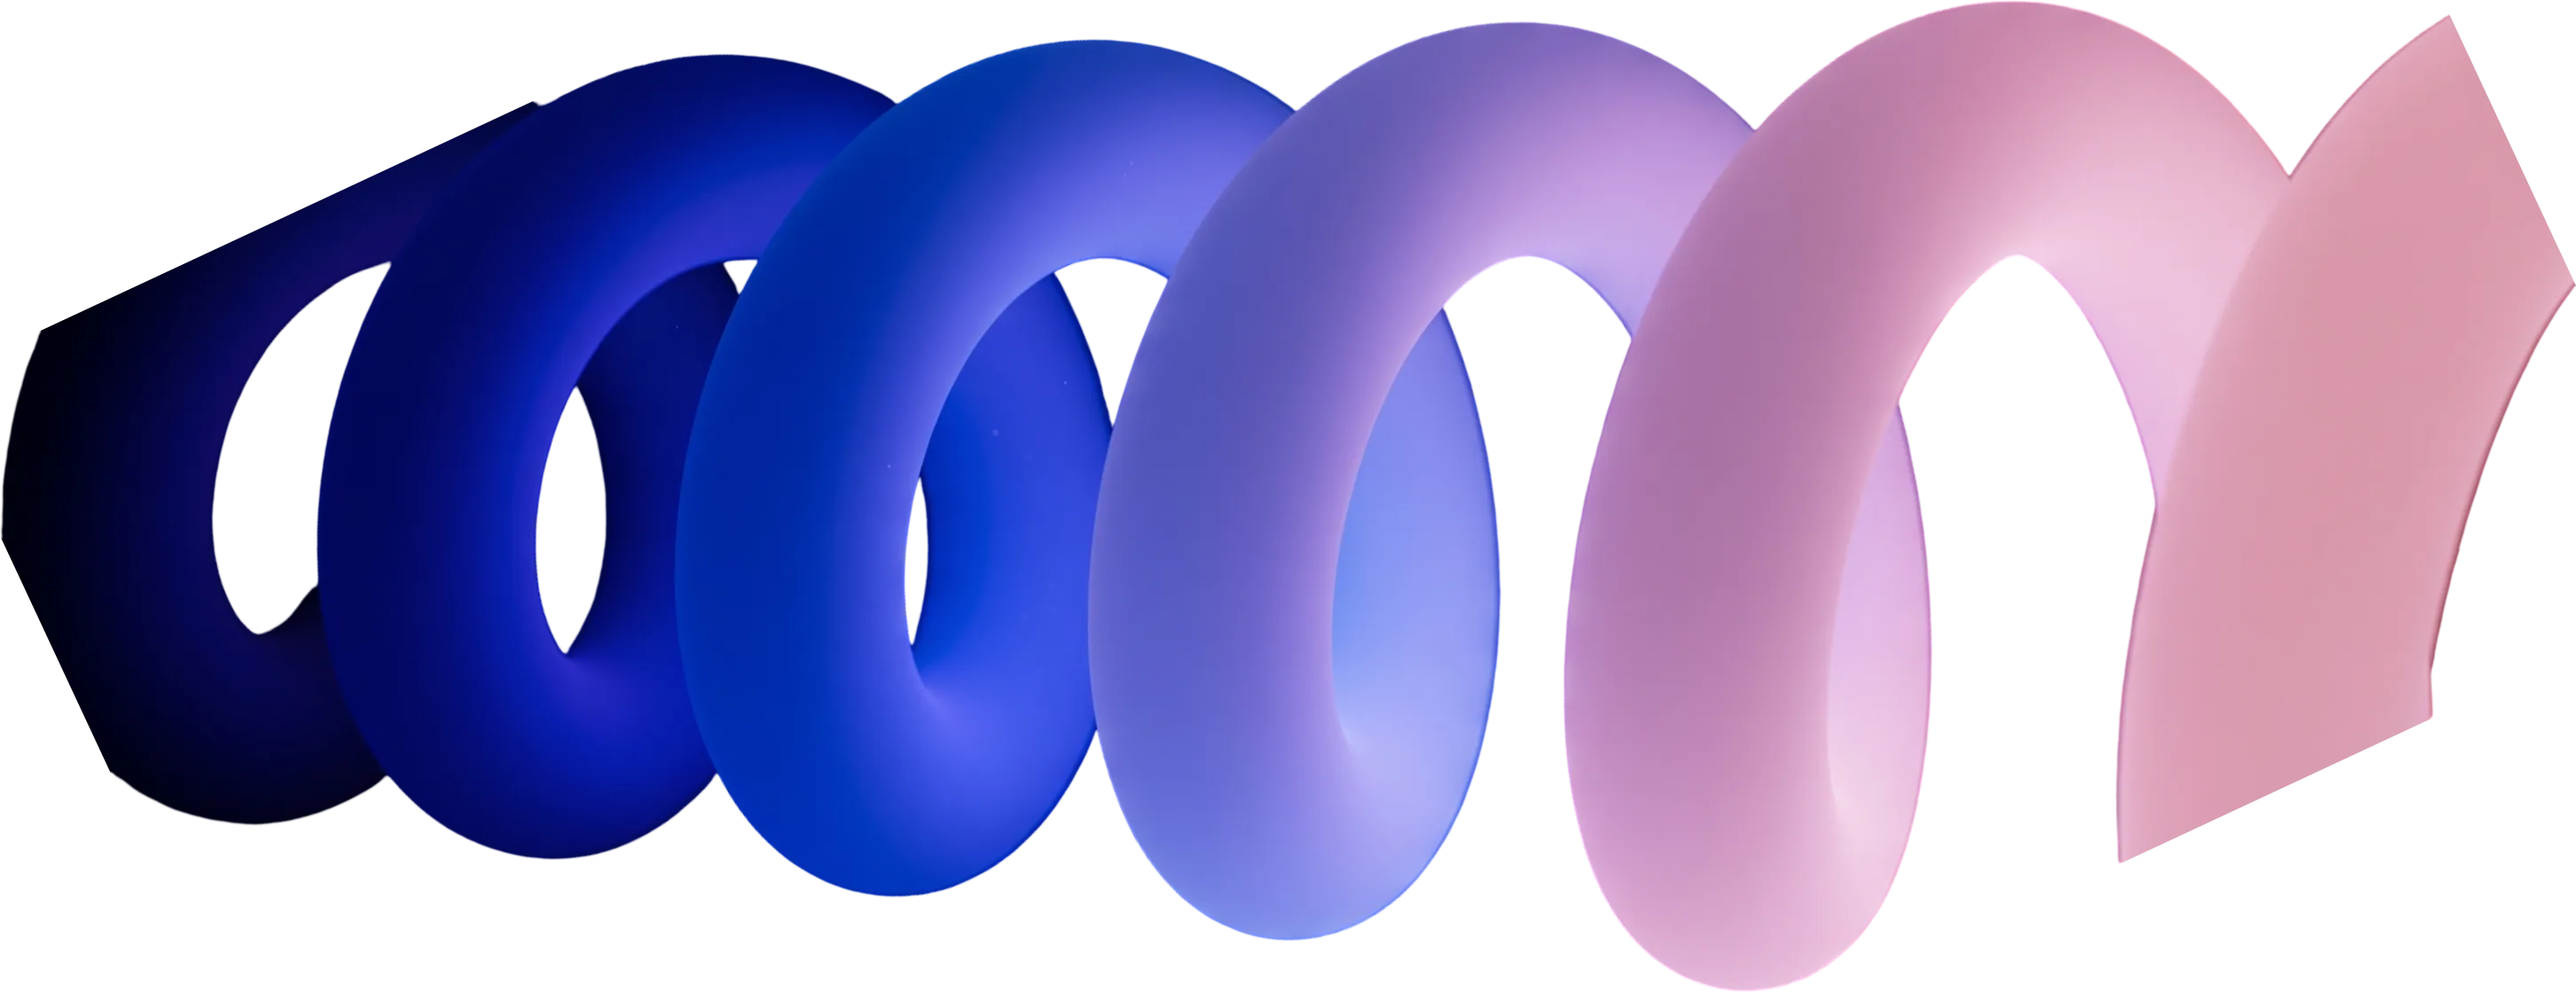
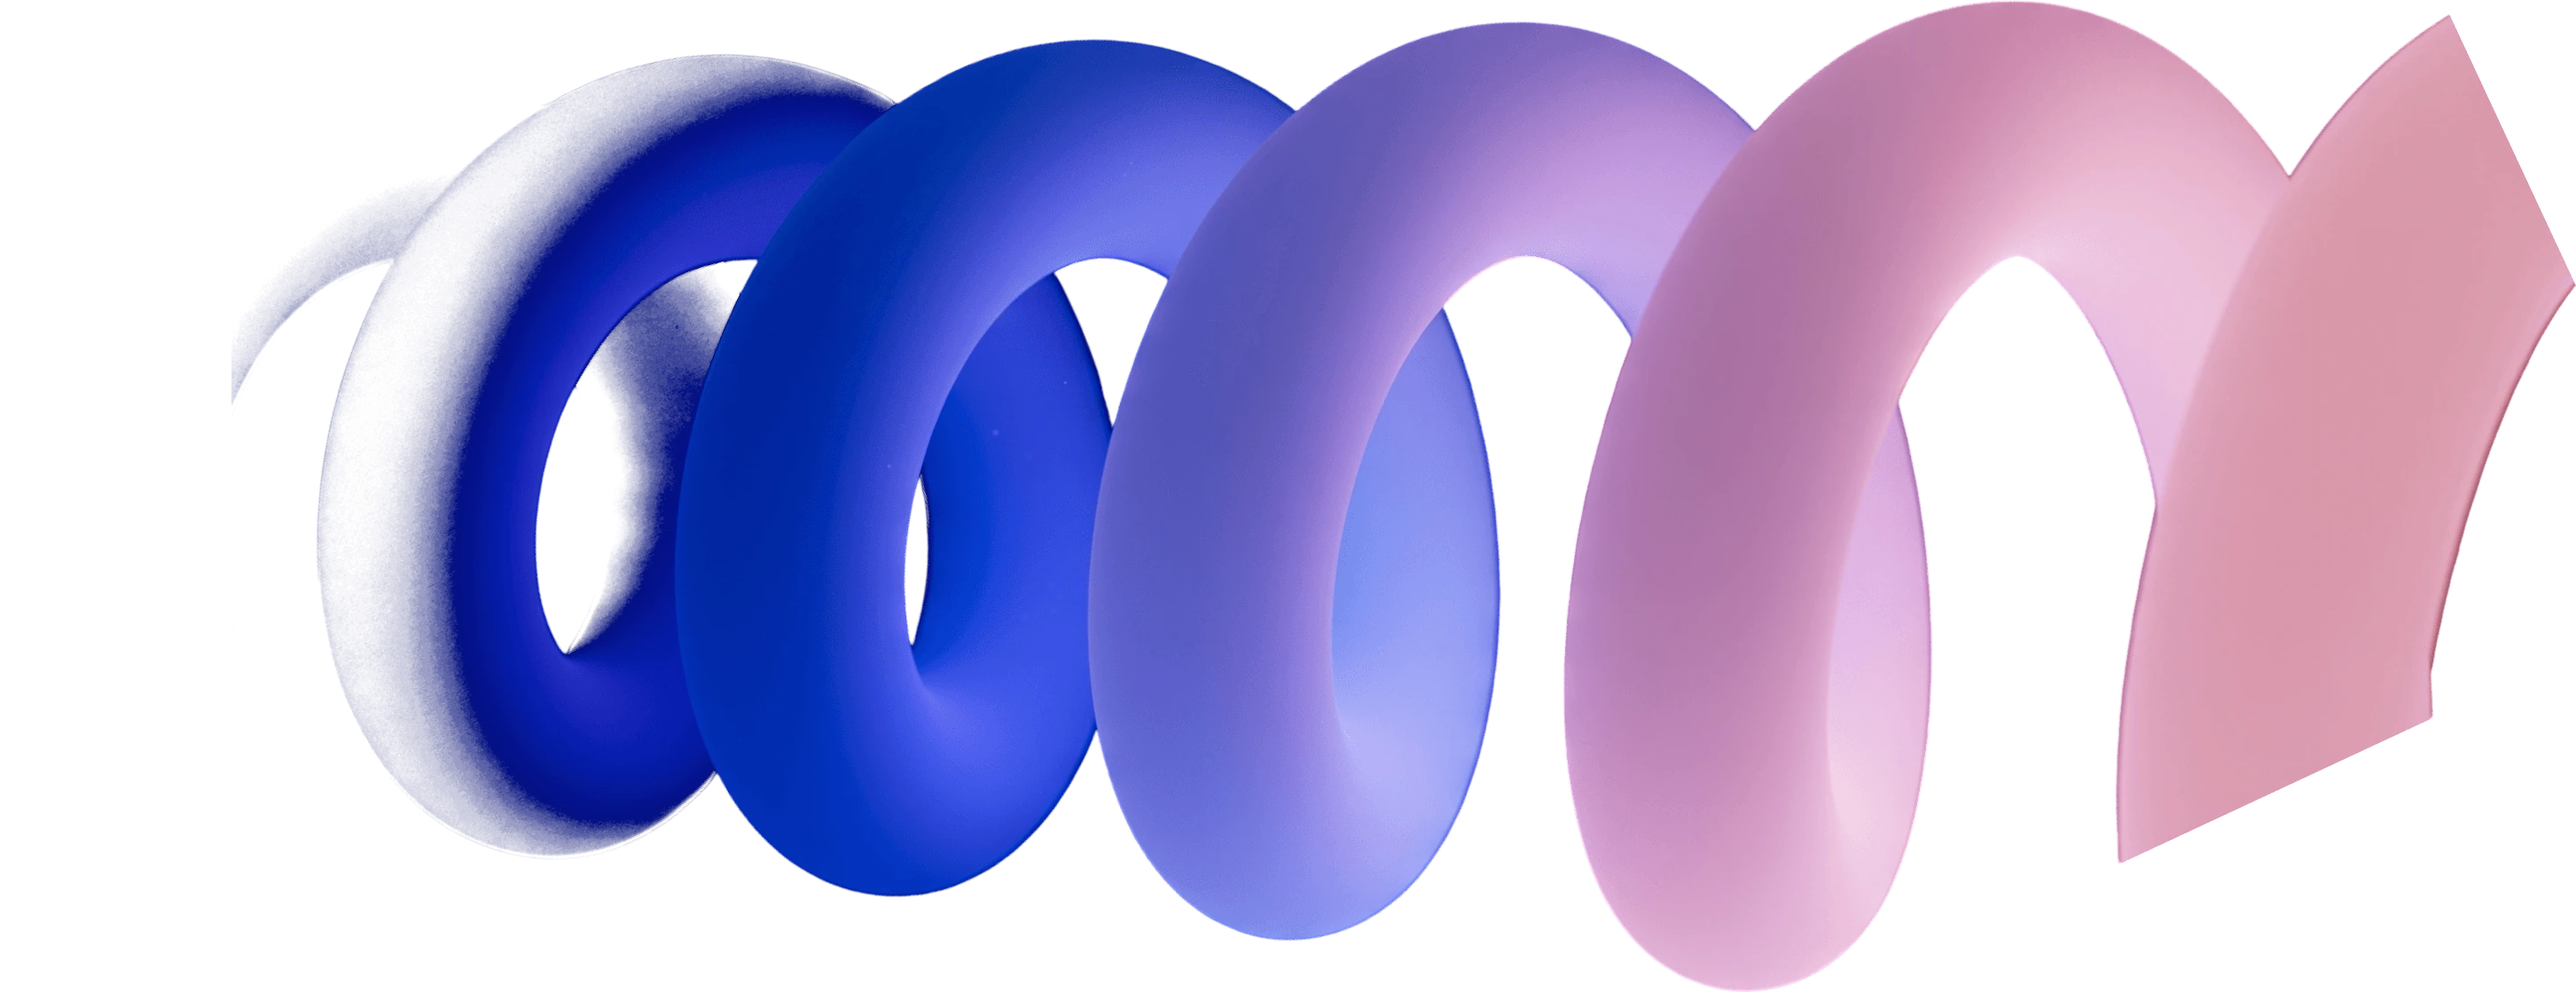
fix: disable preloader and custom smooth scroll on mobile devices for better performance

Changed region(s): [[0.0, 0.0304, 0.3408, 0.8811]]

diff --git a/src/components/ui/Preloader.tsx b/src/components/ui/Preloader.tsx
@@ -3,6 +3,7 @@
 import React, { useEffect, useRef, useState, useCallback } from "react";
 import gsap from "gsap";
 import { useLenis } from "@/lib/lenis";
+import { isMobileDevice } from "@/lib/animation";
 
 // Extend global window object for reliable synchronization with Hero
 declare global {
@@ -193,19 +194,12 @@ export default function Preloader() {
       }
     } catch {}
 
-    const isMobile = isMobileScreen();
+    const isMobile = isMobileDevice();
     isMobileRef.current = isMobile;
     const reducedMotion = isReducedMotion();
 
     // =========================================================================
     // PRIMARY REQUIREMENT: Mobile & Reduced-Motion Full Bypass
-    // =========================================================================
-    // Completely disable preloader execution on mobile screens (< 768px) and
-    // when reduced motion is preferred.
-    // - Do not show overlay, percentage, or animations.
-    // - Do not lock scrolling or modify overflow.
-    // - Do not start GSAP timelines or asset-loading promises.
-    // - Unblock page and dispatch completion events immediately.
     // =========================================================================
     if (isMobile || reducedMotion || hasPlayedPreloader) {
       isDoneRef.current = true;
@@ -220,6 +214,14 @@ export default function Preloader() {
     // Prevent duplicate animation in React Strict Mode
     if (initializedRef.current) return;
     initializedRef.current = true;
+
+    // Dismiss immediately if window is resized to mobile during preloading
+    const handleResize = () => {
+      if (isMobileDevice() && !isDoneRef.current) {
+        handleSkip();
+      }
+    };
+    window.addEventListener("resize", handleResize, { passive: true });
 
     // Desktop: Lock scroll during preloading
     if (lenisRef.current) {
@@ -421,7 +423,7 @@ export default function Preloader() {
 
     return () => {
       clearTimeout(safetyTimer);
-      window.removeEventListener("resize", handleResizeOrOrientation);
+      window.removeEventListener("resize", handleResize);
       window.removeEventListener("orientationchange", handleResizeOrOrientation);
       masterTl.kill();
       cleanupAndUnlock();

diff --git a/src/components/sections/Hero.tsx b/src/components/sections/Hero.tsx
@@ -6,6 +6,7 @@ import React, { useRef } from "react";
 import gsap from "gsap";
 import { ScrollTrigger } from "gsap/ScrollTrigger";
 import { useGSAP } from "@gsap/react";
+import { isMobileDevice } from "@/lib/animation";
 
 if (typeof window !== "undefined") {
   gsap.registerPlugin(ScrollTrigger);
@@ -132,30 +133,17 @@ const Hero: React.FC<HeroProps> = ({ onCursorEnter, onCursorLeave }) => {
       // Plays cinematic reveal when at top; skips if already scrolled midway
       // =========================================================================
       const isAlreadyScrolled = window.scrollY > 30;
-      const isMobile =
-        typeof window !== "undefined" &&
-        (window.matchMedia("(max-width: 767.98px)").matches ||
-          window.matchMedia("(hover: none) and (pointer: coarse) and (max-height: 500px)").matches);
-      const prefersReducedMotion =
-        typeof window !== "undefined" &&
-        window.matchMedia("(prefers-reduced-motion: reduce)").matches;
-
+      const isMobile = isMobileDevice();
       const preloaderOpeningFired =
         typeof window !== "undefined" && !!window.__crevosysPreloaderOpeningDispatched;
       const preloaderDoneFired =
         typeof window !== "undefined" && !!window.__crevosysPreloaderDone;
       const preloaderElement =
         typeof document !== "undefined" && document.getElementById("site-preloader");
-
-      // On mobile devices or when reduced motion is preferred, NEVER wait for the preloader
       const shouldWaitForPreloader =
-        !isMobile &&
-        !prefersReducedMotion &&
-        !!preloaderElement &&
-        !preloaderOpeningFired &&
-        !preloaderDoneFired;
+        !isMobile && !!preloaderElement && !preloaderOpeningFired && !preloaderDoneFired;
 
-      if (isAlreadyScrolled || prefersReducedMotion) {
+      if (isAlreadyScrolled) {
         gsap.set(".hero-reveal-word", { yPercent: 0, rotateX: 0, opacity: 1, filter: "blur(0px)" });
         gsap.set(".hero-badge", { opacity: 1, y: 0, scale: 1, filter: "blur(0px)" });
         gsap.set(".hero-sub-line", { yPercent: 0, opacity: 1, filter: "blur(0px)" });

diff --git a/src/lib/lenis.tsx b/src/lib/lenis.tsx
@@ -1,0 +1,62 @@
+"use client";
+
+import React, { useEffect, useState } from "react";
+import {
+  ReactLenis as BaseReactLenis,
+  useLenis,
+  LenisContext,
+} from "lenis/react";
+
+export * from "lenis/react";
+
+interface ResponsiveLenisProps extends React.ComponentProps<typeof BaseReactLenis> {
+  children?: React.ReactNode;
+}
+
+/**
+ * Centralized Responsive Lenis Controller
+ * - Desktop & Tablet (>= 768px): Initializes smooth Lenis scrolling.
+ * - Mobile (< 768px) & prefers-reduced-motion: Completely bypasses Lenis, ensuring
+ *   100% native browser momentum scrolling and zero interference with touch gestures.
+ */
+export function ReactLenis({ children, root = true, ...props }: ResponsiveLenisProps) {
+  const [isEnabled, setIsEnabled] = useState(false);
+
+  useEffect(() => {
+    const evaluate = () => {
+      if (typeof window === "undefined") return;
+      const isDesktopOrTablet = window.matchMedia("(min-width: 768px)").matches;
+      const prefersReducedMotion = window.matchMedia("(prefers-reduced-motion: reduce)").matches;
+      setIsEnabled(isDesktopOrTablet && !prefersReducedMotion);
+    };
+
+    evaluate();
+
+    const mql = window.matchMedia("(min-width: 768px)");
+    const motionMql = window.matchMedia("(prefers-reduced-motion: reduce)");
+
+    const handleChange = () => evaluate();
+
+    mql.addEventListener("change", handleChange);
+    motionMql.addEventListener("change", handleChange);
+    window.addEventListener("resize", handleChange, { passive: true });
+
+    return () => {
+      mql.removeEventListener("change", handleChange);
+      motionMql.removeEventListener("change", handleChange);
+      window.removeEventListener("resize", handleChange);
+    };
+  }, []);
+
+  if (!isEnabled) {
+    return <>{children}</>;
+  }
+
+  return (
+    <BaseReactLenis root={root} {...props}>
+      {children}
+    </BaseReactLenis>
+  );
+}
+
+export default ReactLenis;

diff --git a/src/lib/animation.ts b/src/lib/animation.ts
@@ -1,0 +1,34 @@
+/**
+ * Centralized Animation Configuration & Responsive Utilities
+ *
+ * Enforces our mobile performance rule:
+ * - Desktop and Tablet (>= 768px): Full rich animation experience (GSAP, ScrollTrigger, Lenis).
+ * - Mobile (< 768px) & prefers-reduced-motion: Nonessential animations are completely disabled.
+ *   Content is visible immediately in its final state.
+ */
+
+export const BREAKPOINT_MD = 768;
+
+export const DESKTOP_MEDIA_QUERY = "(min-width: 768px) and (prefers-reduced-motion: no-preference)";
+export const MOBILE_MEDIA_QUERY = "(max-width: 767.98px), (prefers-reduced-motion: reduce)";
+
+export const isClient = typeof window !== "undefined";
+
+export const isMobileDevice = (): boolean => {
+  if (!isClient) return false;
+  return (
+    window.innerWidth < 768 ||
+    window.matchMedia("(max-width: 767.98px)").matches ||
+    window.matchMedia("(hover: none) and (pointer: coarse) and (max-height: 500px)").matches ||
+    /Android.*Mobile|iPhone|iPod/i.test(navigator.userAgent)
+  );
+};
+
+export const prefersReducedMotion = (): boolean => {
+  if (!isClient) return false;
+  return window.matchMedia("(prefers-reduced-motion: reduce)").matches;
+};
+
+export const shouldRunAnimations = (): boolean => {
+  return !isMobileDevice() && !prefersReducedMotion();
+};

diff --git a/src/app/globals.css b/src/app/globals.css
@@ -17,7 +17,7 @@ body {
    loading animations are never displayed on mobile screens (< 768px).
    This completely avoids visual flash before client-side hydration occurs.
    ========================================================================= */
-@media (max-width: 767.98px) {
+@media (max-width: 767.98px), ((hover: none) and (pointer: coarse) and (max-height: 500px)) {
   #site-preloader {
     display: none !important;
     visibility: hidden !important;
